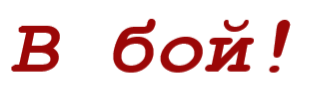
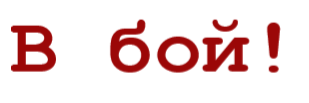
Сделал рефакториг кода, поменял картинку на кнопке запуска игры

diff --git a/Model/Bot.cs b/Model/Bot.cs
@@ -1,4 +1,5 @@
 using System;
+using System.Collections.Generic;
 using System.Linq;
 using System.Reflection;
 
@@ -16,7 +17,7 @@ namespace WindowsForm.Model
 
             TurnToThePlayerAndShoot(model);
 
-            foreach(var followingLocation in FindingAWay.FindAWay(model.Map, model.Player.Location, Walker.OfSets
+            foreach(var followingLocation in FindAWay(model.Map, model.Player.Location, Walker.OfSets
                 .Select(ofset => Location + ofset)
                 .ToHashSet()))
             {
@@ -26,6 +27,35 @@ namespace WindowsForm.Model
                     break;
                 }
             }
+        }
+
+        public IEnumerable<SinglyLinkedList<Point>> FindAWay(Playground map, Point finish, HashSet<Point> startingPositions)
+        {
+            var queue = new Queue<SinglyLinkedList<Point>>();
+            queue.Enqueue(new SinglyLinkedList<Point>(finish));
+            var visited = new HashSet<Point>() { finish };
+
+            while (queue.Count > 0)
+            {
+                var point = queue.Dequeue();
+
+                if (!map.InBounds(point.Value) || map[point.Value].Any(creature => creature.DeadInConflict(this)))
+                    continue;
+
+                if (startingPositions.Contains(point.Value)) yield return point;
+
+                foreach (var ofset in Walker.OfSets)
+                {
+                    var nextPoint = point.Value + ofset;
+
+                    if (visited.Contains(nextPoint)) continue;
+
+                    visited.Add(nextPoint);
+                    queue.Enqueue(new SinglyLinkedList<Point>(nextPoint, point));
+                }
+            }
+
+            yield break;
         }
 
         private bool CheckIfThePositionIsAvailable(Point location, GameModel model)
@@ -38,6 +68,8 @@ namespace WindowsForm.Model
 
             return true;
         }
+
+        public override bool DeadInConflict(GameObjects gameObjects) => !(gameObjects is Stone || gameObjects == this);
 
         void TurnToThePlayerAndShoot(GameModel model)
         {

diff --git a/Model/Player.cs b/Model/Player.cs
@@ -9,9 +9,6 @@ namespace WindowsForm.Model
             AngleInDegrees = angleInDegrees;
         }
 
-        public override bool DeadInConflict(GameObjects gameObjects) 
-            => !(gameObjects is Stone || gameObjects == this);
-
         public void TurnLeft() => AngleInDegrees += 270;
 
         public void TurnRight() => AngleInDegrees += 90;
@@ -20,7 +17,7 @@ namespace WindowsForm.Model
         {
             var neighbour = model.Map[Walker.OfSets[(int)Go.Back] + Location];
 
-            if (!neighbour.Any(creature => DeadInConflict(creature)))
+            if (!neighbour.Any(creature => creature.DeadInConflict(this)))
                 Delta = Walker.OfSets[(int)Go.Back];
         }
 
@@ -28,7 +25,7 @@ namespace WindowsForm.Model
         {
             var neighbour = model.Map[Walker.OfSets[(int)Go.Forwad] + Location];
 
-            if (!neighbour.Any(creature => DeadInConflict(creature)))
+            if (!neighbour.Any(creature => creature.DeadInConflict(this)))
                 Delta = Walker.OfSets[(int)Go.Forwad];
         }
 
@@ -36,7 +33,7 @@ namespace WindowsForm.Model
         {
             var neighbour = model.Map[Walker.OfSets[(int)Go.Left] + Location];
 
-            if (!neighbour.Any(creature => DeadInConflict(creature)))
+            if (!neighbour.Any(creature => creature.DeadInConflict(this)))
                 Delta = Walker.OfSets[(int)Go.Left];
         }
 
@@ -44,7 +41,7 @@ namespace WindowsForm.Model
         {
             var neighbour = model.Map[Walker.OfSets[(int)Go.Right] + Location];
 
-            if (!neighbour.Any(creature => DeadInConflict(creature)))
+            if (!neighbour.Any(creature => creature.DeadInConflict(this)))
                 Delta = Walker.OfSets[(int)Go.Right];
         }
     }

diff --git a/Model/GameModel.cs b/Model/GameModel.cs
@@ -63,7 +63,7 @@ namespace WindowsForm.Model
         {
             var sortedСreatures = creatures[x, y].OrderBy(creature => creature.Priority);
 
-            if (sortedСreatures.Last() is Bullet) return new List<GameObjects>() { sortedСreatures.First() };
+            if (sortedСreatures.Last() is Bullet && sortedСreatures.Count() > 2) return new List<GameObjects>() { sortedСreatures.First() };
 
             return sortedСreatures.Where(creature => !sortedСreatures.Last().DeadInConflict(creature)).ToList();
         }
